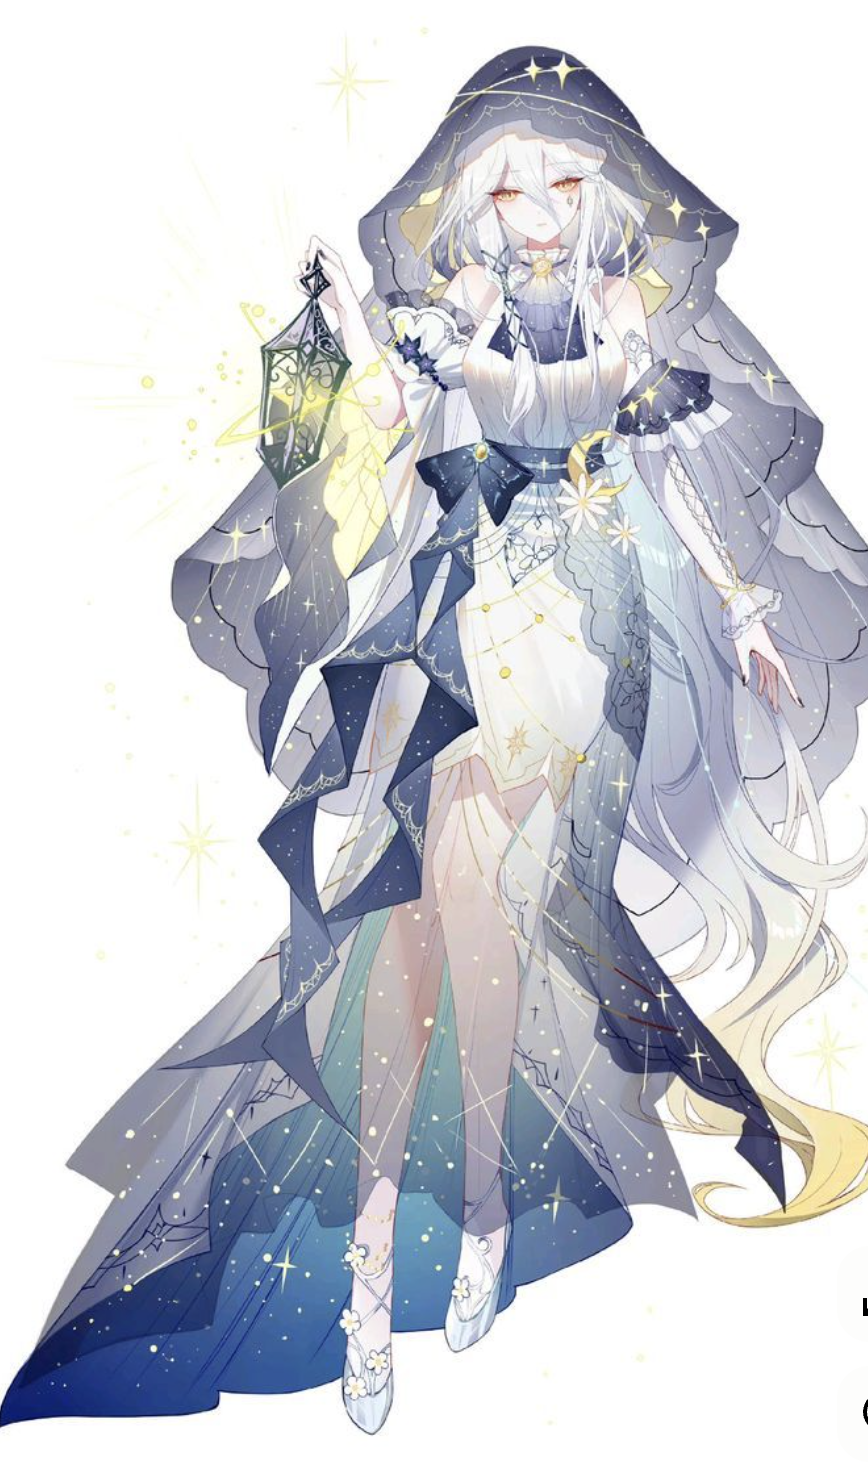
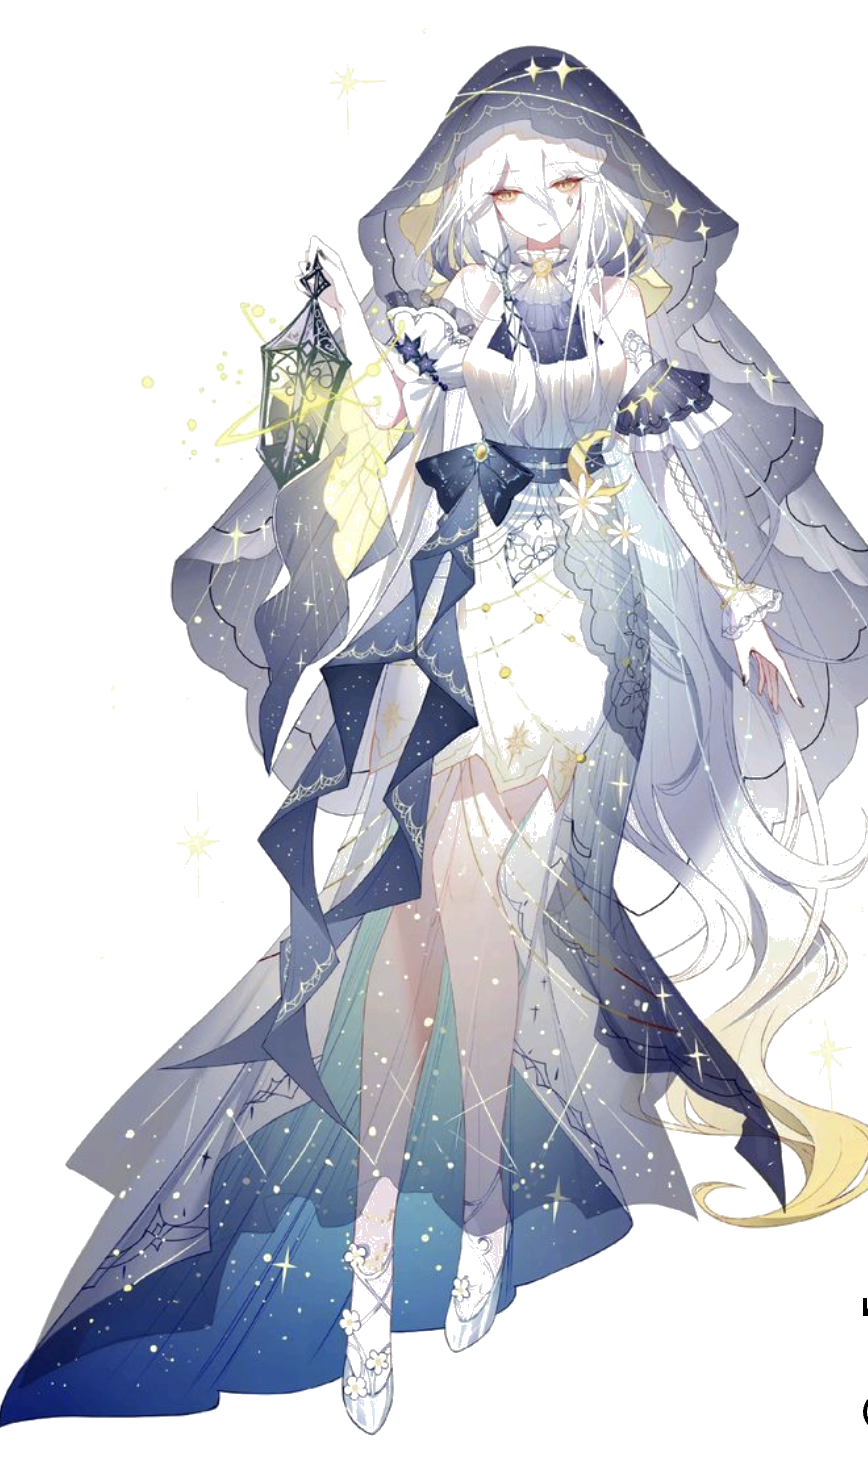
Enhance character visuals by removing backgrounds for better integration
Removes character backgrounds using PIL and updates CSS filters for transparency in `index.css`, adds Python dependencies and background removal script.

Replit-Commit-Author: Agent
Replit-Commit-Session-Id: 0c918321-97ba-48c8-9c63-5f66a4189b38
Replit-Commit-Checkpoint-Type: full_checkpoint
Replit-Commit-Screenshot-Url: https://storage.googleapis.com/screenshot-production-us-central1/788b90a9-72da-477b-a858-5628bbb0de02/0c918321-97ba-48c8-9c63-5f66a4189b38/HZ9eya9

diff --git a/client/src/index.css b/client/src/index.css
@@ -40,18 +40,14 @@ canvas {
   touch-action: none;
 }
 
-/* Character background removal techniques */
+/* Character image display with transparent backgrounds */
 .character-image {
-  /* Advanced background removal using multiple CSS filters */
+  /* Enhanced character display with proper transparency support */
   filter: 
-    contrast(1.3) 
-    brightness(1.2) 
+    contrast(1.2) 
+    brightness(1.1) 
     saturate(1.2)
-    drop-shadow(0 0 15px rgba(255,255,255,0.6))
-    hue-rotate(0deg);
-  
-  /* Use screen blend mode to help remove darker backgrounds */
-  mix-blend-mode: screen;
+    drop-shadow(0 0 12px rgba(255,255,255,0.5));
   
   /* Ensure transparent background is respected */
   background: transparent;
@@ -63,15 +59,14 @@ canvas {
 
 /* Enhanced character display for selection screen */
 .character-select-image {
-  /* Stronger filters for character selection */
+  /* Optimized filters for transparent character images */
   filter: 
-    contrast(1.4) 
-    brightness(1.3) 
+    contrast(1.3) 
+    brightness(1.2) 
     saturate(1.3)
-    drop-shadow(0 0 20px rgba(255,255,255,0.8))
-    drop-shadow(0 0 40px rgba(255,255,255,0.4));
+    drop-shadow(0 0 18px rgba(255,255,255,0.7))
+    drop-shadow(0 0 35px rgba(255,255,255,0.3));
   
-  mix-blend-mode: screen;
   background: transparent;
   
   /* Smooth transitions for hover effects */
@@ -80,11 +75,11 @@ canvas {
 
 .character-select-image:hover {
   filter: 
-    contrast(1.5) 
-    brightness(1.4) 
+    contrast(1.4) 
+    brightness(1.3) 
     saturate(1.4)
-    drop-shadow(0 0 25px rgba(255,255,255,1.0))
-    drop-shadow(0 0 50px rgba(255,255,255,0.6));
+    drop-shadow(0 0 22px rgba(255,255,255,0.9))
+    drop-shadow(0 0 45px rgba(255,255,255,0.5));
   
   transform: scale(1.05);
 }

diff --git a/remove_backgrounds.py b/remove_backgrounds.py
@@ -1,0 +1,122 @@
+#!/usr/bin/env python3
+"""
+Script to remove backgrounds from character images using PIL
+"""
+
+import os
+from PIL import Image, ImageChops
+import numpy as np
+
+def remove_background_simple(input_path, output_path):
+    """Remove background using color-based transparency"""
+    try:
+        # Open image
+        img = Image.open(input_path)
+        img = img.convert("RGBA")
+        
+        # Get image data
+        data = img.getdata()
+        
+        # Create new data with transparency
+        new_data = []
+        for item in data:
+            # Check if pixel is close to white/light background
+            if item[0] > 240 and item[1] > 240 and item[2] > 240:  # White-ish
+                new_data.append((item[0], item[1], item[2], 0))  # Make transparent
+            elif item[0] > 200 and item[1] > 200 and item[2] > 200:  # Light gray
+                new_data.append((item[0], item[1], item[2], 50))  # Semi-transparent
+            else:
+                new_data.append(item)  # Keep original
+        
+        # Update image data
+        img.putdata(new_data)
+        
+        # Save as PNG with transparency
+        img.save(output_path, "PNG")
+        
+        print(f"✓ Processed: {input_path} -> {output_path}")
+        return True
+    except Exception as e:
+        print(f"✗ Error processing {input_path}: {e}")
+        return False
+
+def remove_background_edges(input_path, output_path):
+    """Remove background by making edge colors transparent"""
+    try:
+        # Open image
+        img = Image.open(input_path)
+        img = img.convert("RGBA")
+        
+        # Get the colors at the corners (likely background)
+        width, height = img.size
+        corners = [
+            img.getpixel((0, 0)),
+            img.getpixel((width-1, 0)),
+            img.getpixel((0, height-1)),
+            img.getpixel((width-1, height-1))
+        ]
+        
+        # Find most common corner color (background)
+        bg_color = max(set(corners), key=corners.count)
+        
+        # Create mask for background removal
+        data = img.getdata()
+        new_data = []
+        
+        for item in data:
+            # Check if pixel is similar to background color
+            if abs(item[0] - bg_color[0]) < 30 and abs(item[1] - bg_color[1]) < 30 and abs(item[2] - bg_color[2]) < 30:
+                new_data.append((item[0], item[1], item[2], 0))  # Make transparent
+            else:
+                new_data.append(item)  # Keep original
+        
+        # Update image data
+        img.putdata(new_data)
+        
+        # Save as PNG with transparency
+        img.save(output_path, "PNG")
+        
+        print(f"✓ Processed (edge method): {input_path} -> {output_path}")
+        return True
+    except Exception as e:
+        print(f"✗ Error processing {input_path}: {e}")
+        return False
+
+def main():
+    # Input and output directories
+    input_dir = "attached_assets"
+    output_dir = "client/public/characters"
+    
+    # Create output directory if it doesn't exist
+    os.makedirs(output_dir, exist_ok=True)
+    
+    # Character files to process (from attached_assets)
+    characters = [
+        ("Ivy_1753996705463.png", "ivy.png"),
+        ("Winter_1753996720672.png", "winter.png"), 
+        ("Scal_1753996713989.png", "scal.png"),
+        ("Lightren_1753996709305.png", "lightren.png")
+    ]
+    
+    print("Starting background removal process...")
+    
+    # Process each character image
+    success_count = 0
+    for source_file, target_file in characters:
+        input_path = os.path.join(input_dir, source_file)
+        output_path = os.path.join(output_dir, target_file)
+        
+        if os.path.exists(input_path):
+            # Try edge detection method first
+            if remove_background_edges(input_path, output_path):
+                success_count += 1
+            # If that fails, try simple color method
+            elif remove_background_simple(input_path, output_path):
+                success_count += 1
+        else:
+            print(f"✗ File not found: {input_path}")
+    
+    print(f"\nBackground removal complete! Processed {success_count}/{len(characters)} images.")
+
+if __name__ == "__main__":
+    main()

diff --git a/replit.md b/replit.md
@@ -132,3 +132,4 @@ The application is designed to be deployed as a single Node.js process that serv
 - **Character System**: Integrated 4 custom characters (Ivy, Winter, Scal, Lightren) with unique artwork and special abilities
 - **Character Abilities**: Implemented ability system with Ivy's combo save, Winter's health freeze, Scal's high-risk modifier, and Lightren's score boost
 - **Voice Line System**: Added character-specific dialogue that appears as speech bubbles when songs complete or fail, featuring 3 different lines per character per outcome
+- **Background Removal**: Processed character images using Python PIL to remove backgrounds, creating transparent PNG files for cleaner visual integration with CSS enhancement filters
